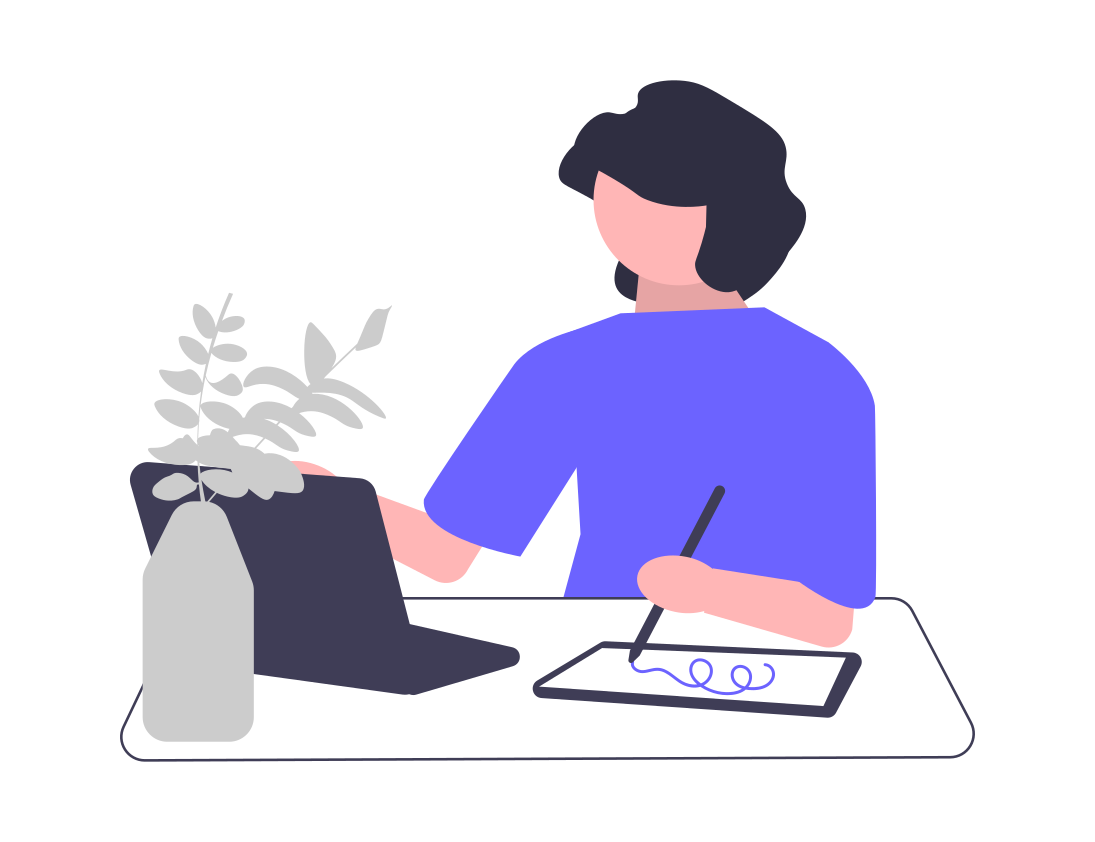
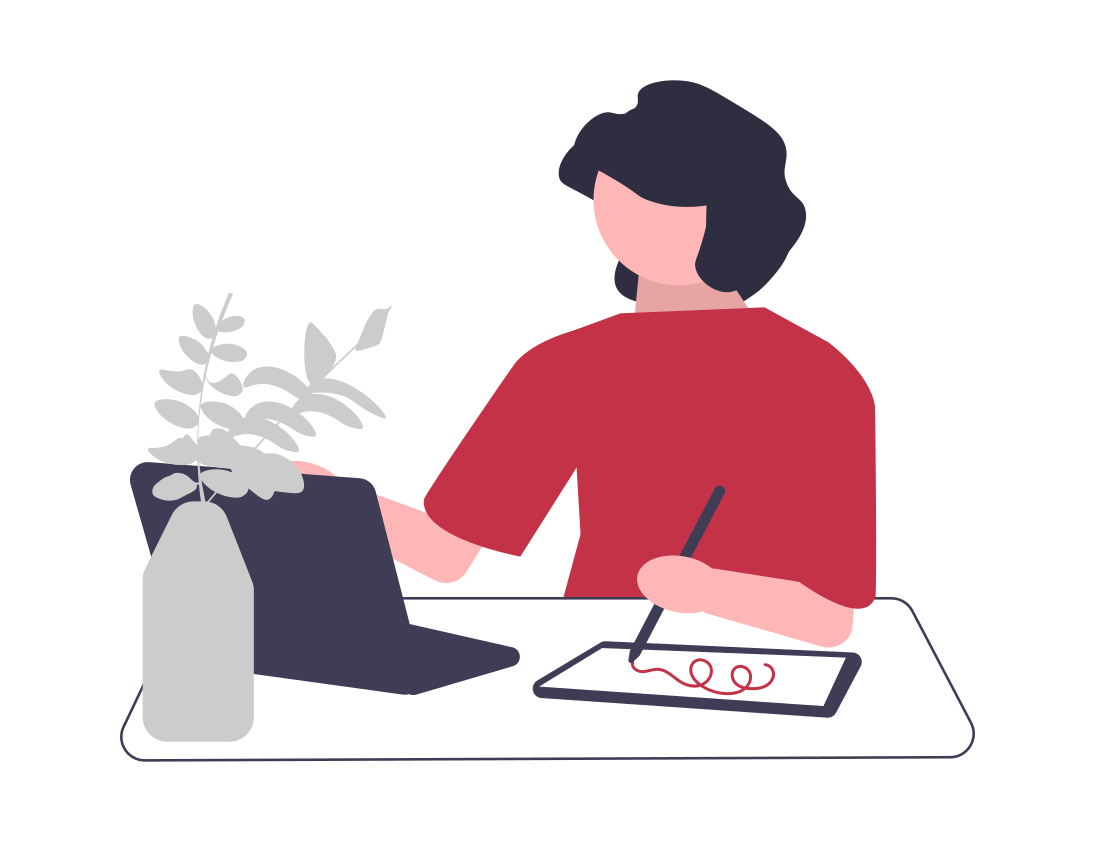
updte

Changed region(s): [[0.3726, 0.3397, 0.8073, 0.7411], [0.59, 0.772, 0.7142, 0.8337]]

diff --git a/index.html b/index.html
@@ -33,6 +33,36 @@
                         <a href="#CONTACT">Contact us</a>
                     </span>
                     <div class="menu-mob ">
+                        <i class="fa-solid fa-bars" id="nav-btns"></i>
+        
+                        <i class="fa-solid fa-xmark" id="close-btns"></i>
+                    </div>
+                </div>
+            </div>
+           
+
+
+            
+        </div>
+        
+    </div>
+
+
+    <div class="header-section " id="navbar-header">
+        <div class="container header">
+            <div class="row">
+                <div class="col-4">
+                    <p class="logo">Vish.</p>
+                </div>
+                <div class="col-8">
+                    <span class="menu ">
+                    <a href="#HOME">Home</a>
+                        <a href="#ABOUTUS">About Us</a>
+                        <a href="#EXPERIENCE">Experience</a>
+                       <a href="#WORKS">Works</a>
+                        <a href="#CONTACT">Contact us</a>
+                    </span>
+                    <div class="menu-mob ">
                         <i class="fa-solid fa-bars" id="nav-btn"></i>
         
                         <i class="fa-solid fa-xmark" id="close-btn"></i>
@@ -69,33 +99,7 @@
 
 
 
-    <!-- header-section -->
-    <!-- <section>
-    <div class="head-links"></div>
-        <div class="header-section">
-            <div class="container">
-                <div class="row">
-
-                    <div class="col-md-4 col-sm-12 ">
-                        <p class="logo">Vish.</p>
-                    </div>
-                    <div class="col-md-8 col-sm-12">
-                        <span class="menu">
-                            <a href="" class="">Home</a>
-                            <a href="" class="">About me</a>
-                            <a href="" class="">Experience</a>
-                            <a href="" class="">Works</a>
-                            <a href="" class="">Contact</a>
-                        </span>
-                    </div>
-
-                </div>
-
-            </div>
-        </div>
-    </section> -->
-
-
+   
 
 
 
@@ -123,7 +127,7 @@
                         </div>
                     </div>
                     <div class="col-md-6">
-                        <img class="vector" src="images/undraw_learning_sketching_nd4f.png" alt="" srcset="">
+                        <img class="vector" src="images/undraw_Dev_productivity_re_fylf.png" alt="" srcset="">
                     </div>
                 </div>
             </div>
@@ -238,7 +242,7 @@
                     <div class="col-md-4 col-sm-12 card-top">
                         <div class="card-top">
                             <div class="card pt-3">
-                                <img src="images/undraw_designer_life_re_6ywf.svg" class="card-img-top" alt="..."
+                                <img src="images/undraw_learning_sketching_nd4f.png" class="card-img-top" alt="..."
                                     style="height:160px">
                                 <div class="card-body">
                                     <h5 class="card-titles">GRAPHIC DESIGNER AND VIDEO EDITOR</h5>
@@ -258,7 +262,7 @@
                     <div class="col-md-4 col-sm-12 card-top">
                         <div class="card-top">
                             <div class="card pt-3">
-                                <img src="images/undraw_animating_re_5gvn.svg" class="card-img-top" alt="..."
+                                <img src="images/undraw_Animating_re_5gvn.png" class="card-img-top" alt="..."
                                     style="height:160px">
                                 <div class="card-body">
                                     <h5 class="card-titles">GRAPHIC DESIGNER AND 2D/3D ANIMATOR</h5>
@@ -275,7 +279,7 @@
                     <div class="col-md-4 col-sm-12 card-top">
                         <div class="card-top">
                             <div class="card pt-3">
-                                <img src="images/undraw_Image_viewer_re_7ejc.png" class="card-img-top" alt="..."
+                                <img src="images/undraw_Video_streaming_re_v3qg (1).png" class="card-img-top" alt="..."
                                     style="height:160px">
                                 <div class="card-body">
                                     <h5 class="card-titles">GRAPHIC DESIGNER AND VIDEO EDITOR</h5>
@@ -295,7 +299,7 @@
                     <div class="col-md-4 col-sm-12 card-top">
                         <div class="card-top">
                             <div class="card pt-3">
-                                <img src="images/undraw_Engineering_team_a7n2.png" class="card-img-top" alt="..."
+                                <img src="images/undraw_Image_viewer_re_7ejc (1).png" class="card-img-top" alt="..."
                                     style="height:160px">
                                 <div class="card-body">
                                     <h5 class="card-titles">GRAPHIC DESIGNER AND VIDEO EDITOR</h5>

diff --git a/style.css b/style.css
@@ -16,7 +16,7 @@ body {overflow-x: hidden;
     margin-top: 0px;
     width: 100vw;
     height: 76px;
-    background: #3B3B5E;
+    background: #c43247;
     
     padding-top: 25px;
  
@@ -31,6 +31,18 @@ body {overflow-x: hidden;
     
    
   }
+
+  #navbar-header{
+    background-color: #c43247;
+    position: fixed;
+    z-index: 1;
+    top: -100px;
+    width:100vw;
+    display: block;
+    transition: top 0.3s;
+    
+    
+}
   .sticky {
     position: fixed;
     z-index: 1;
@@ -104,6 +116,9 @@ body {overflow-x: hidden;
 #close-btn{
     display: none;
 }
+#close-btns{
+    display: none;
+}
 .menu-mob {
     position: relative;
     display: block;
@@ -165,7 +180,7 @@ h5 {
 }
 
 h5 span {
-    color: #3B3B5E;
+    color: #c43247;
     animation-delay: 2s;
 }
 .text-sub{
@@ -182,7 +197,7 @@ h5 span {
 .text-social{
     font-size: small;
     text-align: center;
-    color: #3B3B5E;
+    color: #74686a;
 }
 .logos{
     text-align: center;
@@ -222,7 +237,7 @@ h5 span {
     margin: auto;
     height: 3px;
     width: 100%;
-    background: #3B3B5E;
+    background: #c43247;
 }
 .underline .underlinetwo{
     position: absolute;
@@ -239,7 +254,7 @@ h5 span {
     height:100%;
     border-radius: 2%;
     object-fit: cover;
-    border-right: 5px solid #3B3B5E;
+    border-right: 5px solid #c43247;
     
     
 }
@@ -252,12 +267,12 @@ h5 span {
 .left-sub{
     text-align: left;
     font-size: 15px;
-    color: #3B3B5E;
+    color: #817d7e;
 }
 .table ul{
     text-align: left;
     font-size: 18px;
-    color: #3B3B5E;
+    color: #777172;
     line-height: 40px;
     width: 100vw;
 }
@@ -304,7 +319,7 @@ exp-section */
 .card:hover{
     box-shadow: 4px 4px 5px 0.5px #1b1b1b25;
     transform: scale(1.02);
-    border-bottom:4px solid #3B3B5E;
+    border-bottom:4px solid #c43247;
 }
 .card-subtitle{
     text-align: center;
@@ -339,7 +354,7 @@ exp-section */
     position: relative;
     height: 3px;
     width: 100%;
-    background: #3B3B5E;
+    background: #c43247;
 }
 .underline .underlinetwo-work{
     position: absolute;
@@ -358,7 +373,7 @@ exp-section */
     padding-top: 20px;
     color: #f8f8f8;
     border-radius: 7px;
-    background-color: #3B3B5E;
+    background-color: #c43247;
     font-size: 12px;
     transition: 0.10s;
     box-shadow: 1px 2px 7px -1px #1b1b1b83;
@@ -371,7 +386,7 @@ exp-section */
     padding: 10px;
     color: #f8f8f8;
     border-radius: 5px;
-    background-color: #3535b6;
+    background-color: #e26c7e;
     font-size: small;
     transform: scale(1.03);
   
@@ -422,7 +437,7 @@ exp-section */
 }
 .btn-submit{
    
-    background: #3B3B5E;
+    background: #c43247;
     border: none;
     color: white;
     padding: 8px;
@@ -437,7 +452,7 @@ exp-section */
 }
 .btn-submit:hover{
 
-    background: #3B3B5E;
+    background: #c43247;
    
     
   
@@ -456,7 +471,7 @@ label:focus,
 .btn.active
 {
     outline:0px !important;
-    border: #3B3B5E;
+    border: #c43247;
     box-shadow: none !important;
 }
 
@@ -465,7 +480,7 @@ label:focus,
 
 /* footer-section */
 .footer-section{
-    background:#3B3B5E;
+    background:#c43247;
     text-align: center;
     padding: 5px;
   
@@ -528,7 +543,7 @@ label:focus,
         z-index: 1;
         font-size: 30px;
         color: rgb(253, 253, 253);
-        background: #3B3B5E;
+        background: #c43247;
         width: 100vw;
         
     }
@@ -537,6 +552,10 @@ label:focus,
        margin-bottom: 20px;
     }
     #nav-btn{
+        padding-right: 20px;
+        margin-bottom: 20px;
+    }
+    #nav-btns{
         padding-right: 20px;
         margin-bottom: 20px;
     }

diff --git a/script.js b/script.js
@@ -69,12 +69,17 @@ var TxtRotate = function (el, toRotate, period) {
   }
 
 
-  // scroll
+// When the user scrolls down 20px from the top of the document, slide down the navbar
+window.onscroll = function() {scrollFunction()};
 
-  window.addEventListener("scroll",function(){
-    var header =document.querySelector("header");
-    header.classList.toggle("sticky",window.scrollY > 0);
-  })
+function scrollFunction() {
+  if (document.body.scrollTop > 50 || document.documentElement.scrollTop > 50) {
+    document.getElementById("navbar-header").style.top = "0";
+  } else {
+    document.getElementById("navbar-header").style.top = "-150px";
+  }
+}
+
 
 
   // mobile nav
@@ -82,6 +87,23 @@ var TxtRotate = function (el, toRotate, period) {
   var menu= document.querySelector('#nav-btn')
 var menuwrapper=document.querySelector('.mobile-nav-wrapper')
 var close= document.querySelector('#close-btn')
+
+menu.addEventListener('click',function(e){
+    menuwrapper.style.display='block';
+    close.style.display='block';
+    menu.style.display='none'
+})
+
+close.addEventListener('click',function(e){
+    menuwrapper.style.display='none';
+    close.style.display='none';
+    menu.style.display='block'
+})
+
+
+var menu= document.querySelector('#nav-btns')
+var menuwrapper=document.querySelector('.mobile-nav-wrapper')
+var close= document.querySelector('#close-btns')
 
 menu.addEventListener('click',function(e){
     menuwrapper.style.display='block';
